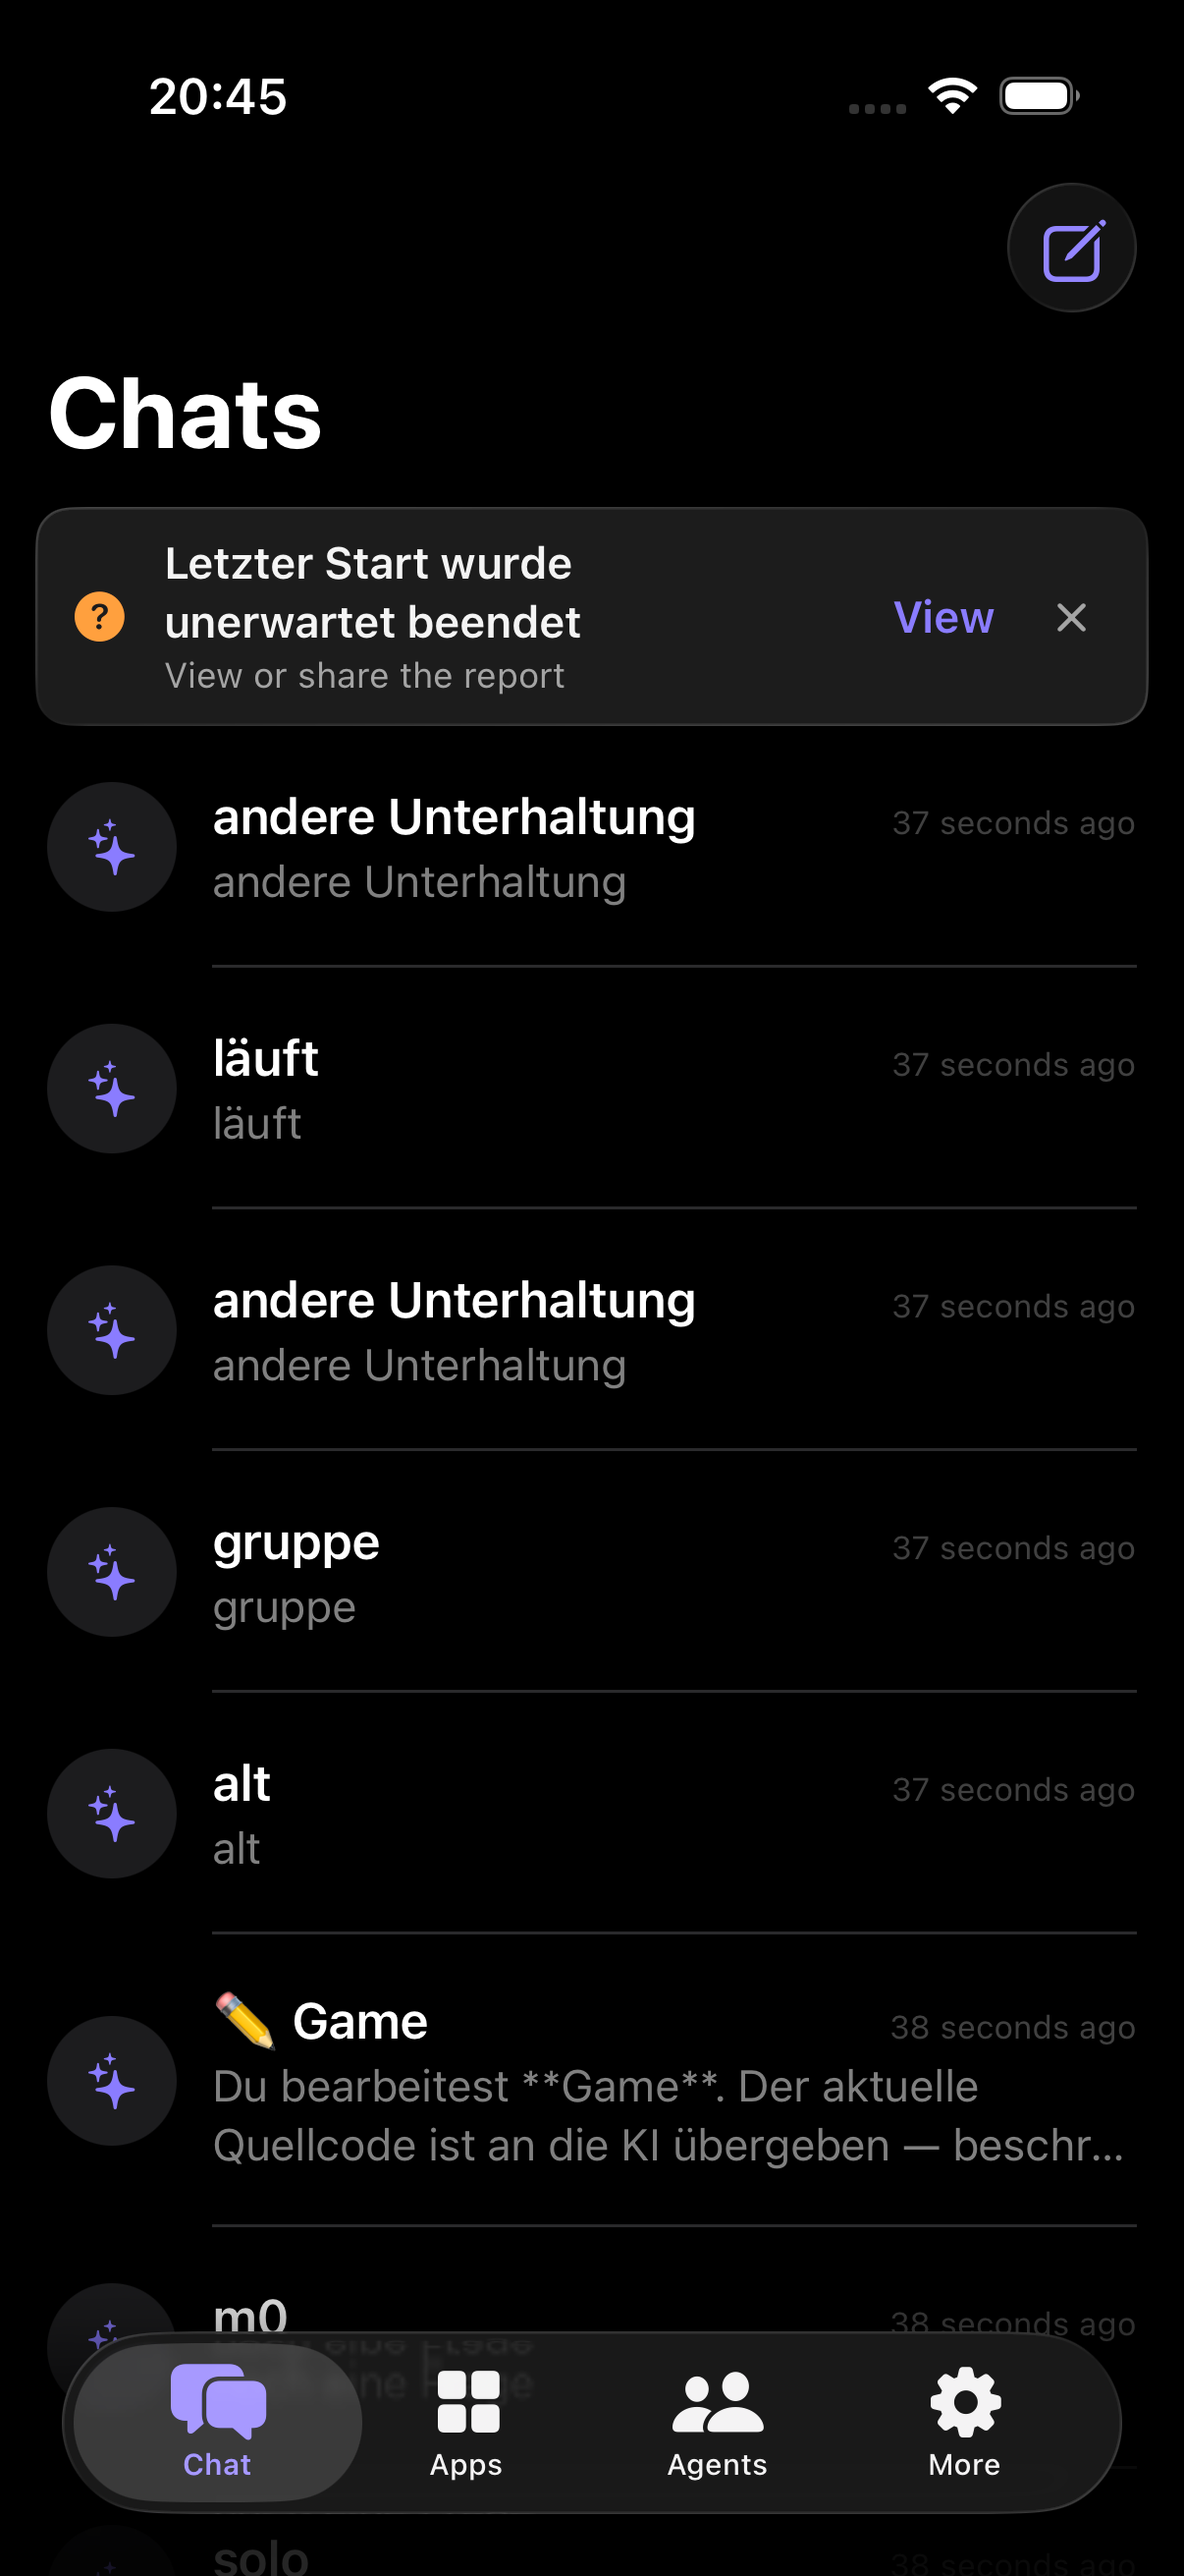
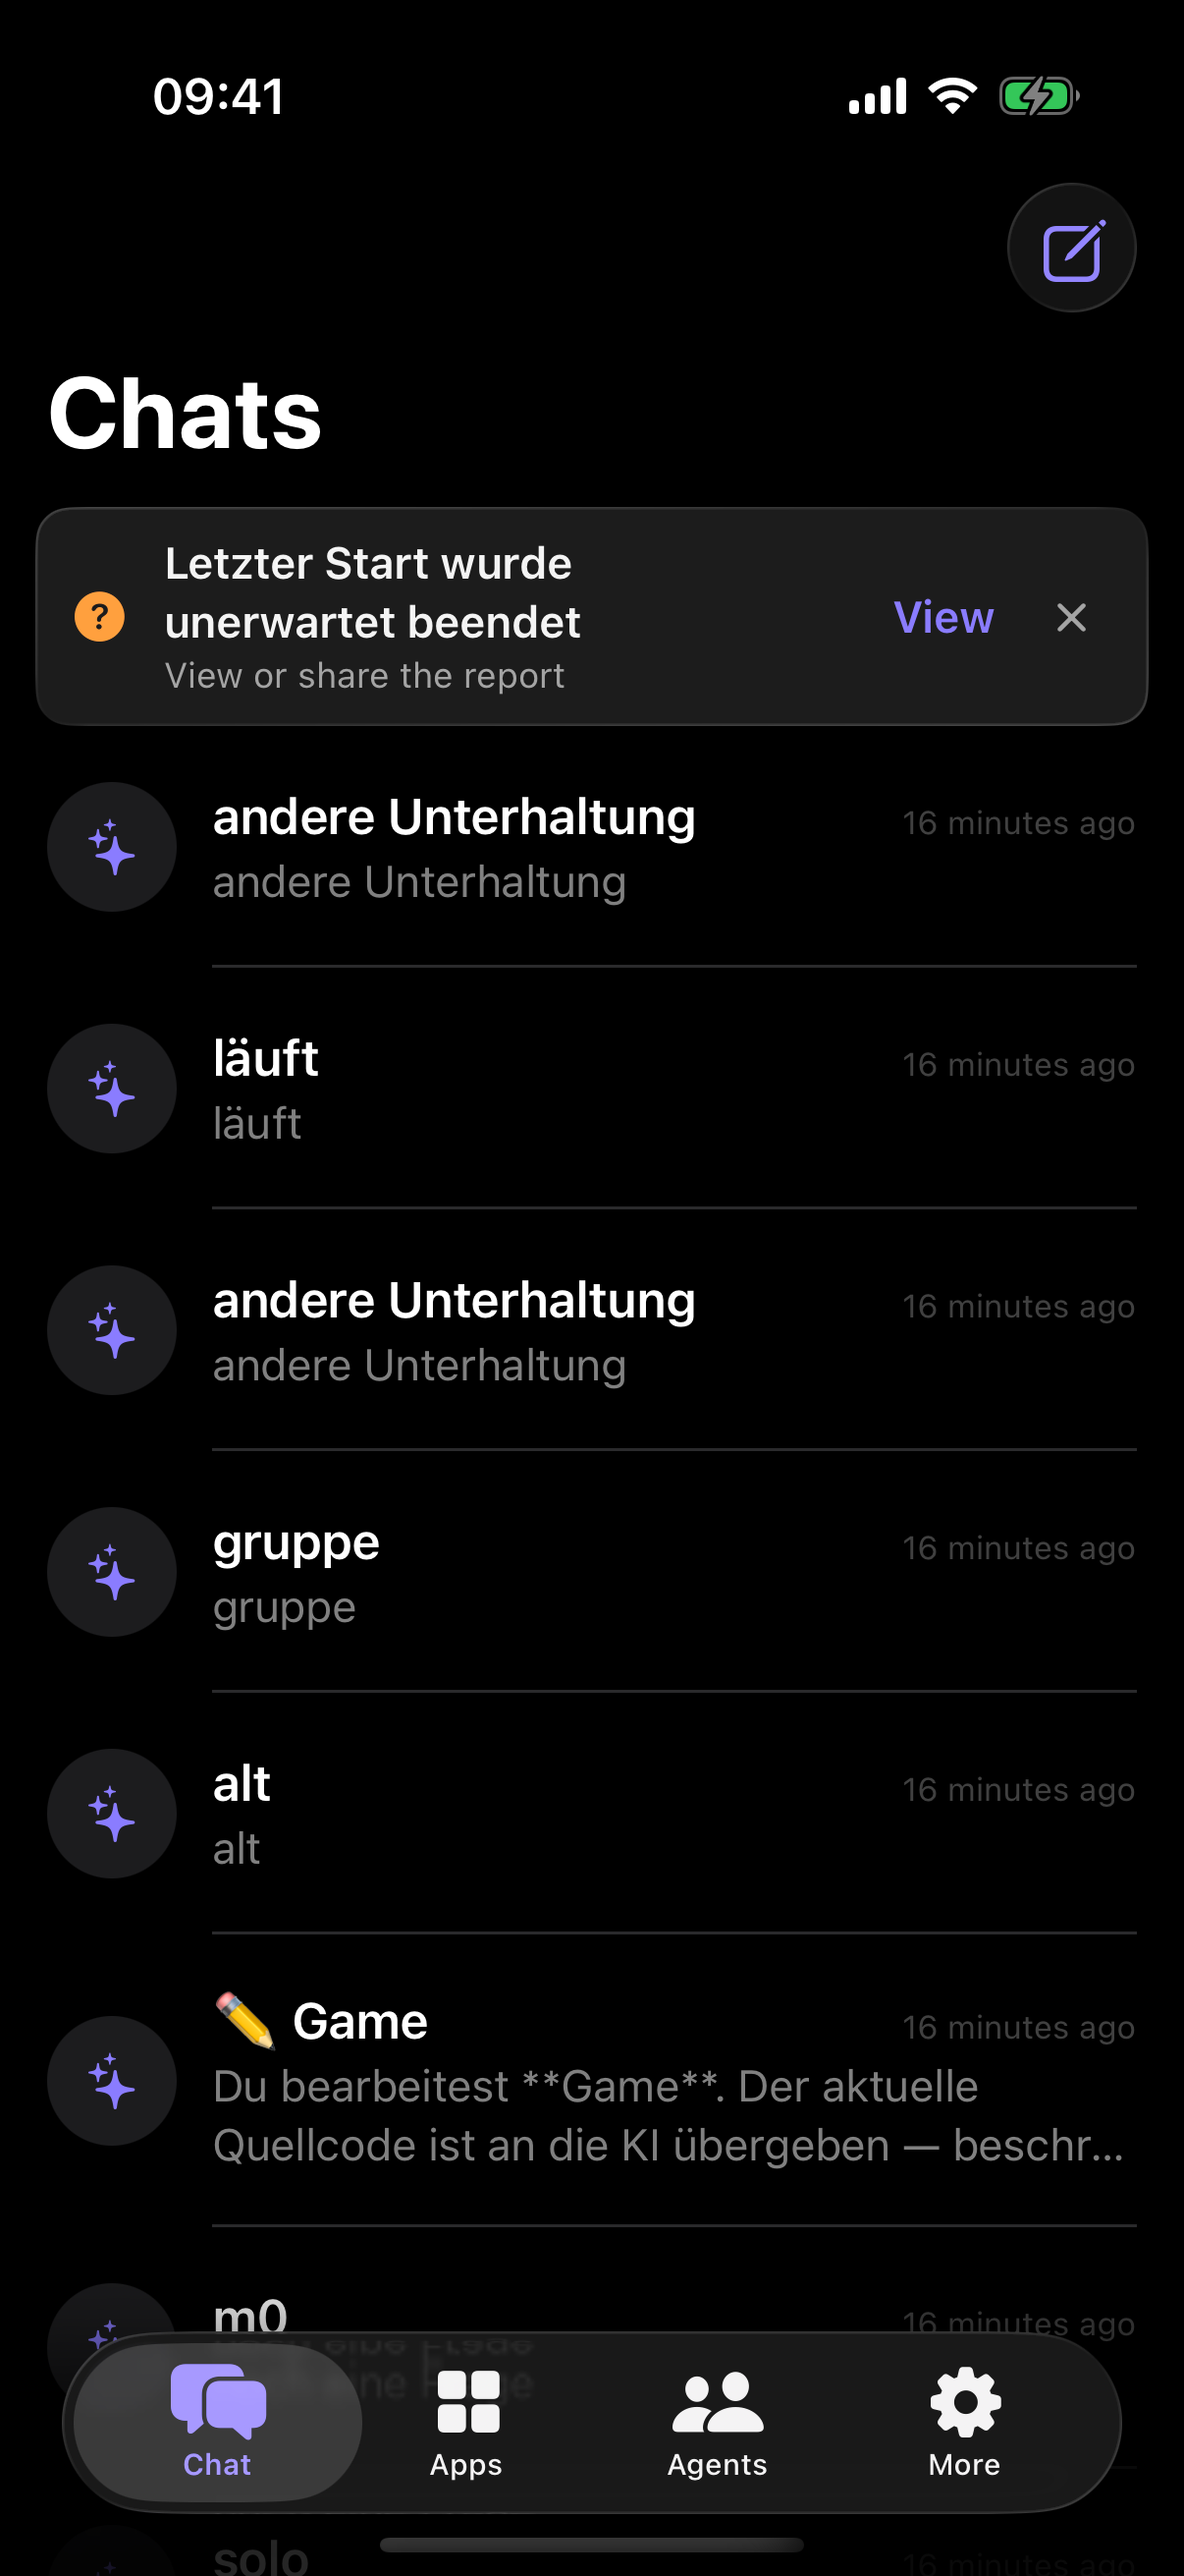
Regenerate the README screenshots to match the store ones
Same treatment: dark, 9:41, keyboard tutorial suppressed, a real model name
(gpt-4o rather than "stub"), and the safeAreaInset fix so nothing sits behind
the mini-app card.

The conversation frame now shows an actual exchange instead of an empty chat.
An empty composer says nothing about what the app does; the point is that you
ask for a thing and the thing appears, so the frame has to show both sides and
the card.

diff --git a/AIAppUITests/ScreenshotTests.swift b/AIAppUITests/ScreenshotTests.swift
@@ -38,7 +38,7 @@ final class ScreenshotTests: XCTestCase {
     """
 
     private static let stubProvider = """
-    {"presetId":"openai","baseURL":"http://127.0.0.1:8555/v1","model":"stub","searchEndpoint":"http://127.0.0.1:8555"}
+    {"presetId":"openai","baseURL":"http://127.0.0.1:8555/v1","model":"gpt-4o","searchEndpoint":"http://127.0.0.1:8555"}
     """
 
     private func launch() -> XCUIApplication {
@@ -51,7 +51,10 @@ final class ScreenshotTests: XCTestCase {
         // Force the interface language so the frames are reproducible rather
         // than depending on the simulator's setting. AIITY_SHOT_LANG=fr etc.
         let language = ProcessInfo.processInfo.environment["AIITY_SHOT_LANG"] ?? "en"
-        app.launchArguments += ["-AppleLanguages", "(\(language))", "-AppleLocale", language]
+        app.launchArguments += [
+            "-AppleLanguages", "(\(language))", "-AppleLocale", language,
+            "-prefs.appearance.v1", "dark",
+        ]
         app.launchEnvironment["AIITY_AGENTS_FILE"] = rosterFile.path
         app.launchEnvironment["PROVIDER_SETTINGS_JSON"] = Self.stubProvider
         app.launchEnvironment["AIITY_TEST_API_KEY"] = "stub-key"
@@ -119,12 +122,22 @@ final class ScreenshotTests: XCTestCase {
         let input = app.descendants(matching: .any).matching(identifier: "chat-input").firstMatch
         XCTAssertTrue(input.waitForExistence(timeout: 15), "no composer")
         sleep(1)
-        capture("05-conversation")
 
+        // An empty chat says nothing about the product. Send one message so the
+        // frame shows what actually happens.
         input.tap()
         input.typeText("Build me a timer for interval training")
         sleep(1)
         capture("06-composer")
+
+        app.descendants(matching: .any).matching(identifier: "chat-send").firstMatch.tap()
+        let card = app.buttons.matching(
+            NSPredicate(format: "label CONTAINS[c] 'preview' OR label CONTAINS[c] 'vorschau'")
+        ).firstMatch
+        _ = card.waitForExistence(timeout: 40)
+        sleep(3)
+        if app.keyboards.element.exists { app.swipeDown(); sleep(1) }
+        capture("05-conversation")
 
         print("AIITY-SHOTS \(shotDirectory.path)")
     }
